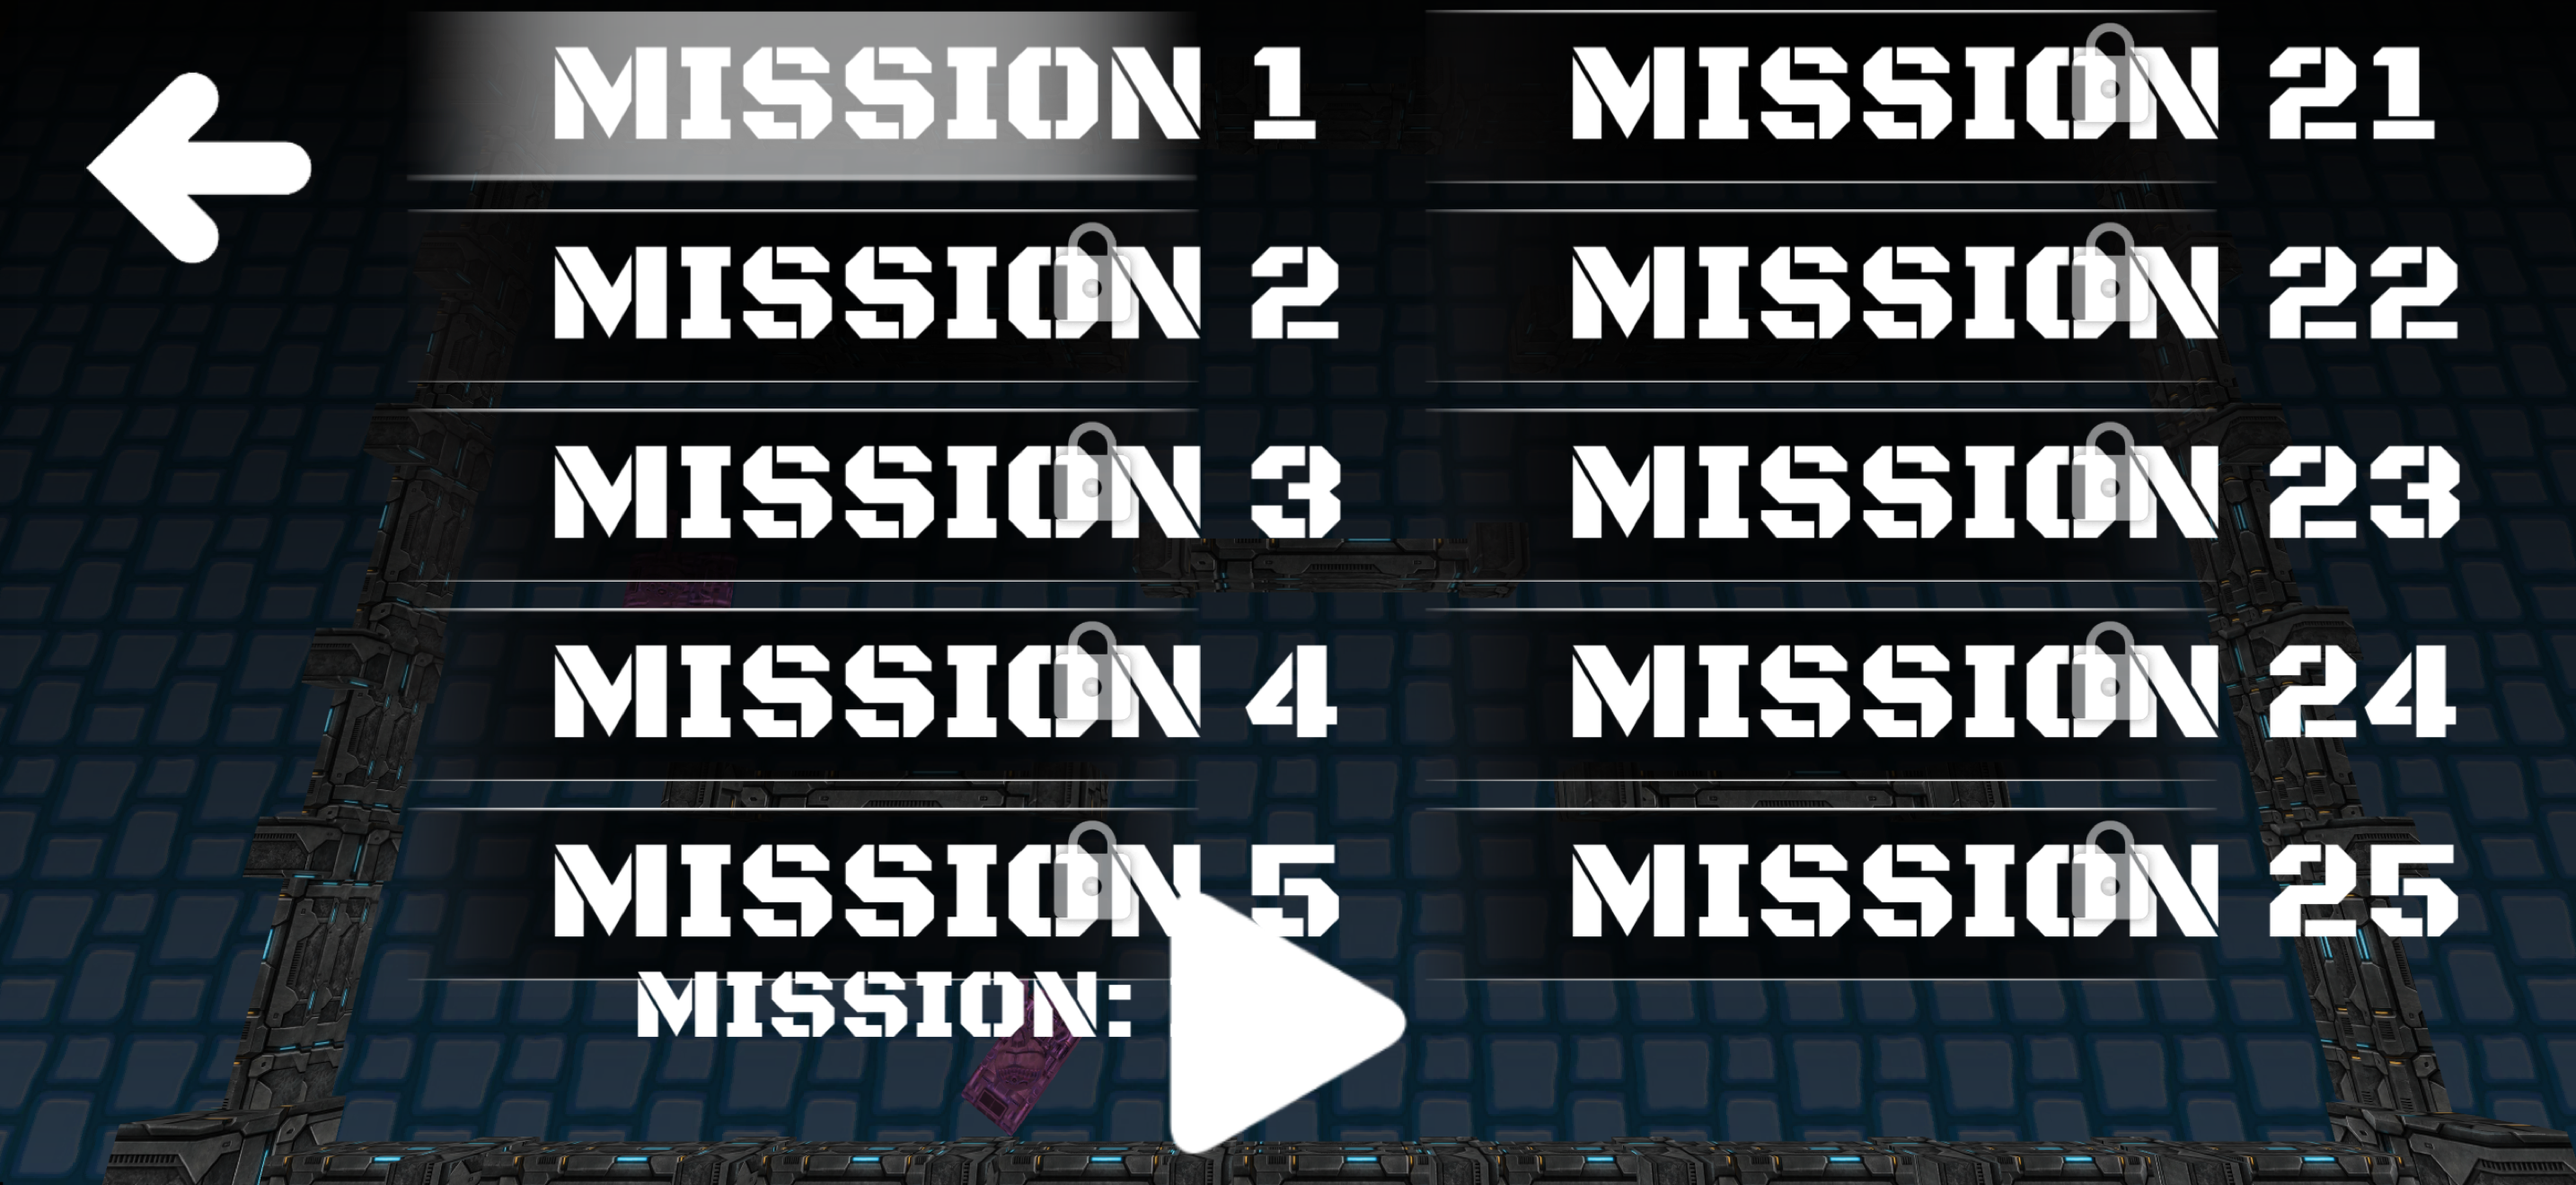
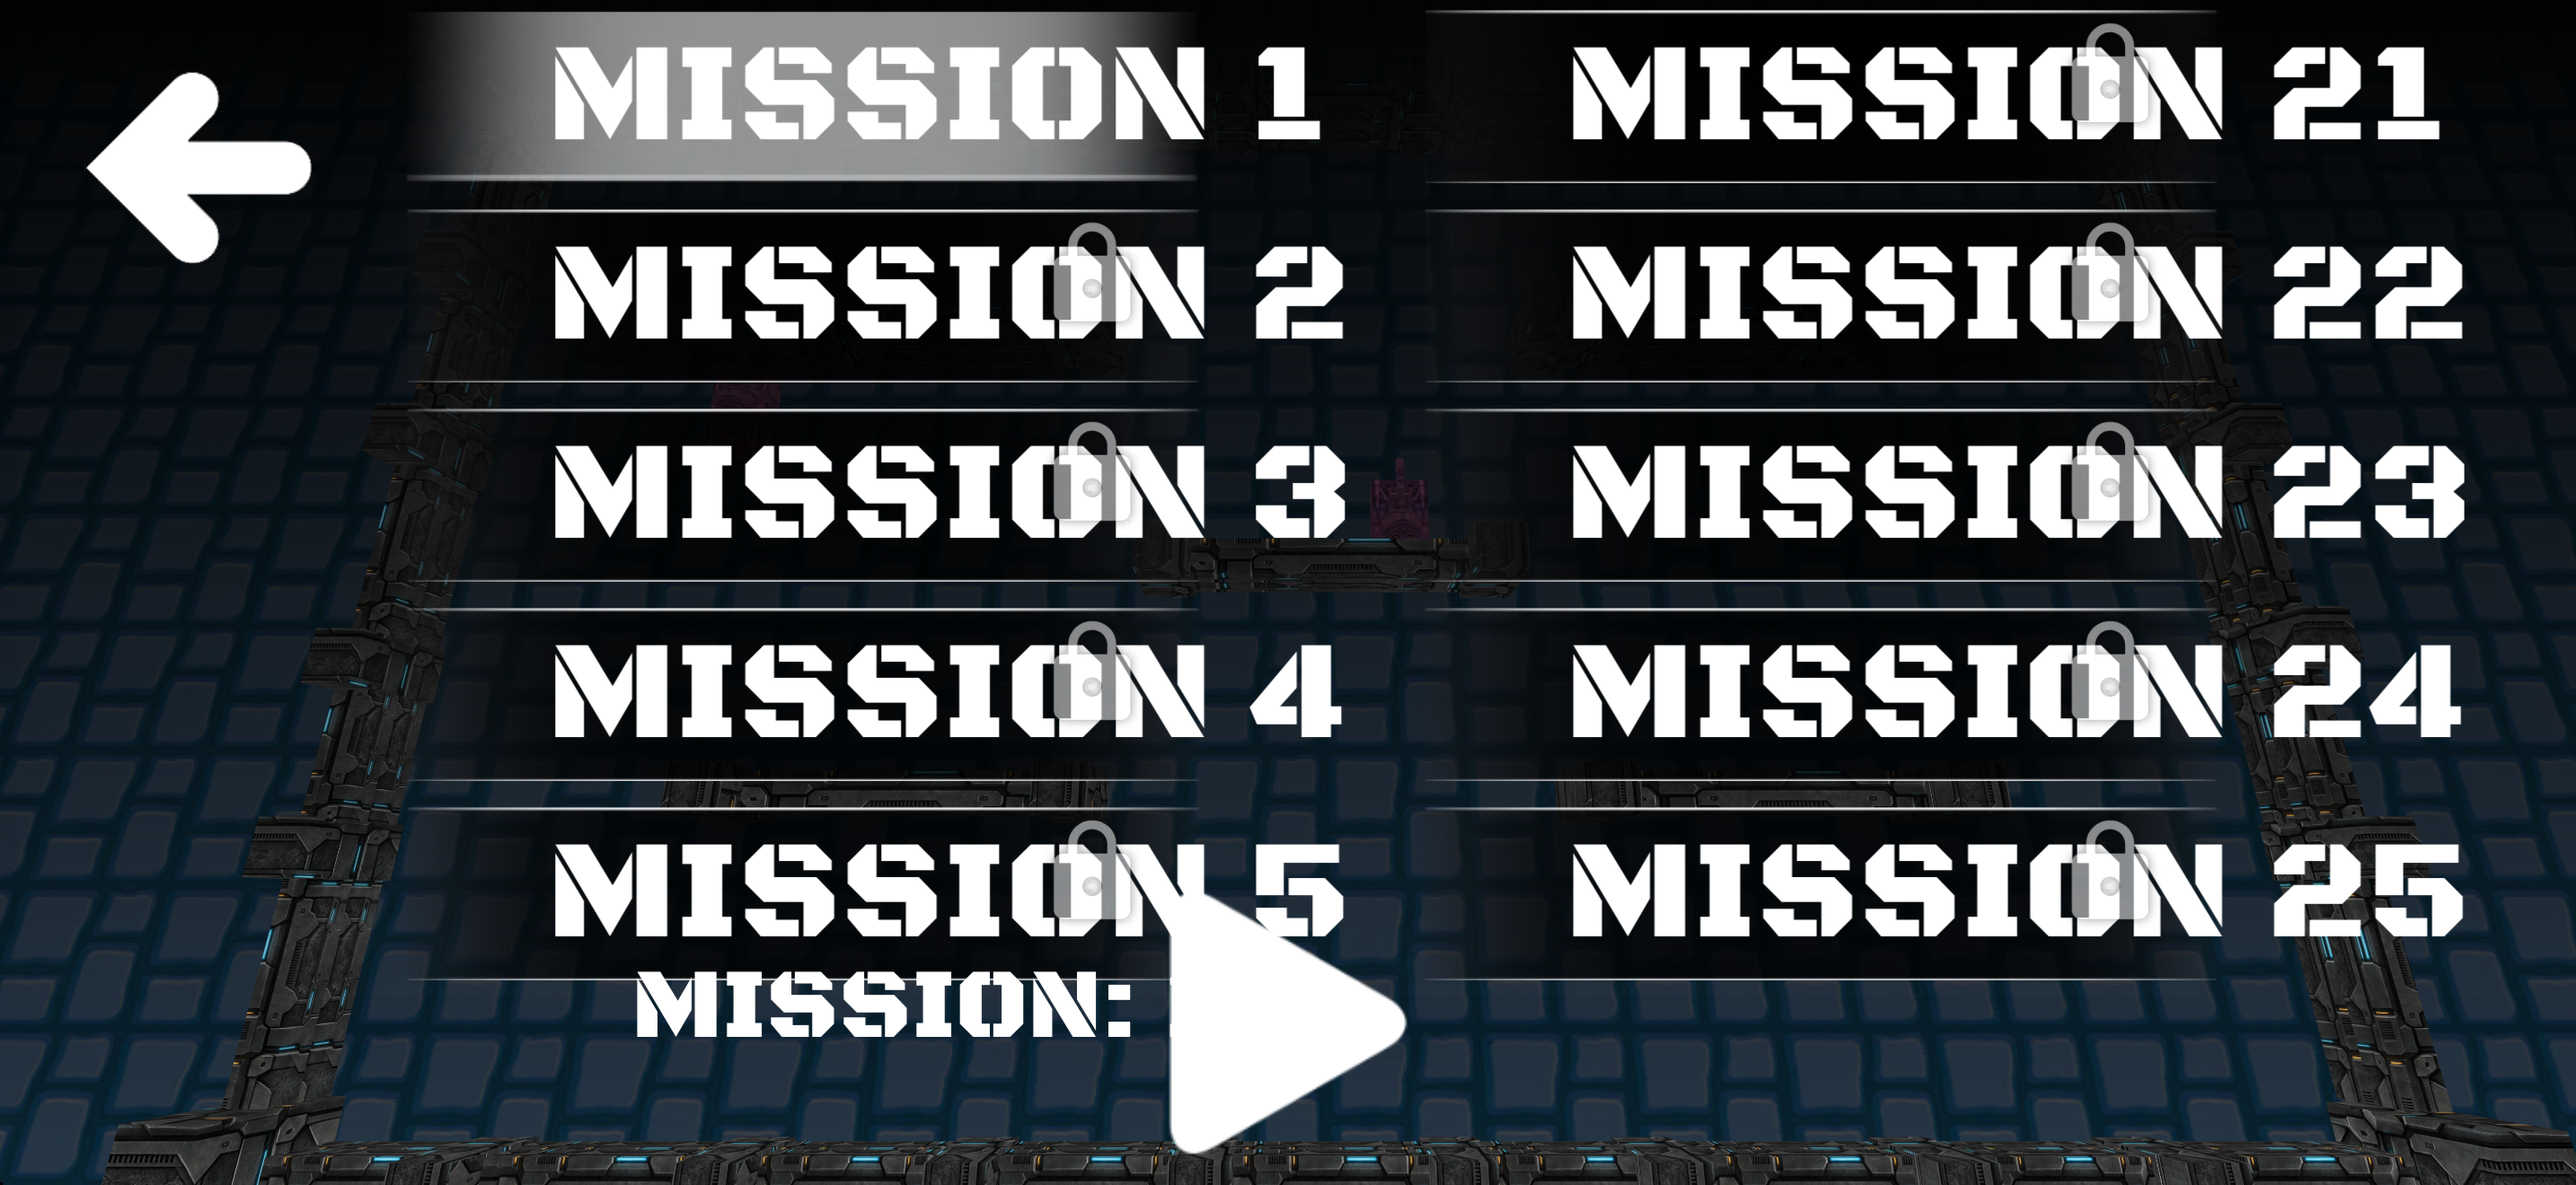
Refresh store screenshots with live fire and overdrive

diff --git a/marketing/screenshots/build_store_screenshot_set.py b/marketing/screenshots/build_store_screenshot_set.py
@@ -1,0 +1,114 @@
+from pathlib import Path
+
+from PIL import Image, ImageDraw, ImageFilter, ImageFont, ImageOps
+
+
+ROOT = Path(__file__).resolve().parents[2]
+SRC = ROOT / "marketing" / "screenshots" / "generated"
+OUT = ROOT / "marketing" / "screenshots"
+FONT = ROOT / "Assets" / "Art" / "BlackOpsOne-Regular.ttf"
+
+
+def font(size: int):
+    return ImageFont.truetype(str(FONT), size)
+
+
+def text_center(draw, xy, value, size, fill, stroke=0, stroke_fill=(0, 0, 0, 255)):
+    f = font(size)
+    box = draw.textbbox((0, 0), value, font=f, stroke_width=stroke)
+    draw.text((xy[0] - (box[2] - box[0]) / 2, xy[1] - (box[3] - box[1]) / 2),
+              value, font=f, fill=fill, stroke_width=stroke, stroke_fill=stroke_fill)
+
+
+def overlay_glow_line(image, points, core=(255, 244, 190, 255), glow=(255, 108, 22, 210), width=13):
+    glow_layer = Image.new("RGBA", image.size, (0, 0, 0, 0))
+    glow_draw = ImageDraw.Draw(glow_layer)
+    glow_draw.line(points, fill=glow, width=width * 5, joint="curve")
+    glow_layer = glow_layer.filter(ImageFilter.GaussianBlur(width * 3))
+    image.alpha_composite(glow_layer)
+    draw = ImageDraw.Draw(image)
+    draw.line(points, fill=core, width=width, joint="curve")
+    end = points[-1]
+    draw.ellipse((end[0] - width * 2, end[1] - width * 2,
+                  end[0] + width * 2, end[1] + width * 2), fill=(255, 255, 235, 255))
+
+
+def combat_capture(source_name, overdrive=False, contact=False):
+    image = Image.open(SRC / source_name).convert("RGBA")
+    if overdrive:
+        shots = [((1378, 825), (1694, 352)), ((1490, 830), (1814, 388))]
+    else:
+        shots = [((1435, 825), (1700, 360))]
+    for shot in shots:
+        overlay_glow_line(image, shot)
+    if contact:
+        overlay_glow_line(image, ((1810, 325), (1550, 680)),
+                          core=(235, 190, 255, 255), glow=(202, 44, 230, 220), width=11)
+
+    draw = ImageDraw.Draw(image, "RGBA")
+    banner = (865, 102, 2000, 248)
+    draw.rounded_rectangle(banner, radius=18, fill=(5, 10, 14, 225), outline=(255, 119, 28, 255), width=4)
+    if overdrive:
+        text_center(draw, (1432, 148), "OVERDRIVE // DOUBLE ROUNDS", 58, (255, 150, 42, 255), 2)
+        text_center(draw, (1432, 207), "REWARDED FIREPOWER ACTIVE", 26, (245, 235, 208, 255), 1)
+    elif contact:
+        text_center(draw, (1432, 175), "LIVE FIRE // RETURN FIRE", 58, (255, 150, 42, 255), 2)
+    else:
+        text_center(draw, (1432, 175), "LIVE FIRE // TARGET ACQUIRED", 52, (255, 150, 42, 255), 2)
+    return image
+
+
+def make_ipad(image, size, label=None):
+    # The game runs landscape, while App Store iPad slots are 4:3. Preserve
+    # the complete gameplay frame and build a restrained, blurred extension
+    # above/below it instead of cropping the title, tanks, or action.
+    source = image.convert("RGBA")
+    background = ImageOps.fit(source.convert("RGB"), size, method=Image.Resampling.LANCZOS,
+                              centering=(0.5, 0.5)).convert("RGBA")
+    background = background.filter(ImageFilter.GaussianBlur(22))
+    shade = Image.new("RGBA", size, (2, 7, 12, 128))
+    background.alpha_composite(shade)
+    fitted = background
+    main_width = size[0]
+    main_height = round(source.height * main_width / source.width)
+    main = source.resize((main_width, main_height), Image.Resampling.LANCZOS)
+    y = (size[1] - main_height) // 2
+    fitted.alpha_composite(main, (0, y))
+    draw = ImageDraw.Draw(fitted, "RGBA")
+    if label:
+        draw.rounded_rectangle((72, 72, 820, 176), radius=16,
+                               fill=(4, 10, 14, 210), outline=(255, 119, 28, 240), width=3)
+        text_center(draw, (446, 124), label, 42, (255, 150, 42, 255), 1)
+    return fitted
+
+
+def write(image, name):
+    image.convert("RGB").save(OUT / name, "PNG", optimize=False, compress_level=1)
+
+
+def main():
+    launch = Image.open(OUT / "tread-shred-launch.png").convert("RGBA")
+    mission = Image.open(SRC / "iphone-pro-combat-clean.png").convert("RGBA")
+    live_fire = combat_capture("iphone-pro-action.png")
+    double_rounds = combat_capture("iphone-pro-action.png", overdrive=True)
+    return_fire = combat_capture("iphone-pro-later.png", contact=True)
+
+    # iPhone 6.9-inch set: no Unity splash, no placeholder screen, and every
+    # gameplay frame has a visible combat beat.
+    write(launch, "tread-shred-01-start.png")
+    write(mission, "tread-shred-02-mission-select.png")
+    write(live_fire, "tread-shred-03-live-fire.png")
+    write(double_rounds, "tread-shred-04-overdrive.png")
+    write(return_fire, "tread-shred-05-return-fire.png")
+
+    # iPad Pro landscape sets use the same verified gameplay moments, composed
+    # for the two App Store landscape display sizes.
+    frames = [launch, mission, live_fire, double_rounds, return_fire]
+    labels = ["COMMAND BASE", "MISSION SELECT", "LIVE FIRE", "OVERDRIVE", "RETURN FIRE"]
+    for display, size in (("ipad129", (2732, 2048)), ("ipad13", (2752, 2064))):
+        for index, (frame, label) in enumerate(zip(frames, labels), 1):
+            write(make_ipad(frame, size, label), f"tread-shred-{display}-{index:02d}.png")
+
+
+if __name__ == "__main__":
+    main()

diff --git a/marketing/app-store-copy.md b/marketing/app-store-copy.md
@@ -1,0 +1,27 @@
+# Tread Shred — App Store copy
+
+## Promotional text
+
+Lock on. Fire smart. Shred every mission.
+
+## Description
+
+Tread Shred is precision tank combat built for fast, brutal missions. Drive the line, read the ricochet, and destroy every hostile before the arena closes in.
+
+FEATURES
+• 40 tactical missions
+• Ricochet shots and deliberate positioning
+• Heavy armor, aggressive enemies, and live-fire arenas
+• Campaign score that carries across the operation
+• Rewarded Overdrive: watch a brief ad to arm double rounds for your next mission
+• Free to play
+
+OVERDRIVE
+Need more firepower? Trigger Overdrive after a mission and deploy with double rounds on the next screen. Two barrels. One brutal advantage. The boost lasts for one mission, and you can re-arm it after every screen.
+
+HOW TO PLAY
+Use the joystick to maneuver. Tap the arena to fire. Use walls, timing, and angles to outmaneuver the enemy. Only the strongest crews finish the operation.
+
+## What's new
+
+Tread Shred is rebuilt for the next operation with refreshed combat visuals, brighter faction colors, aggressive base screens, corrected progression, and production ad configuration. Watch a rewarded ad to activate Overdrive and fire double rounds on the next mission.
